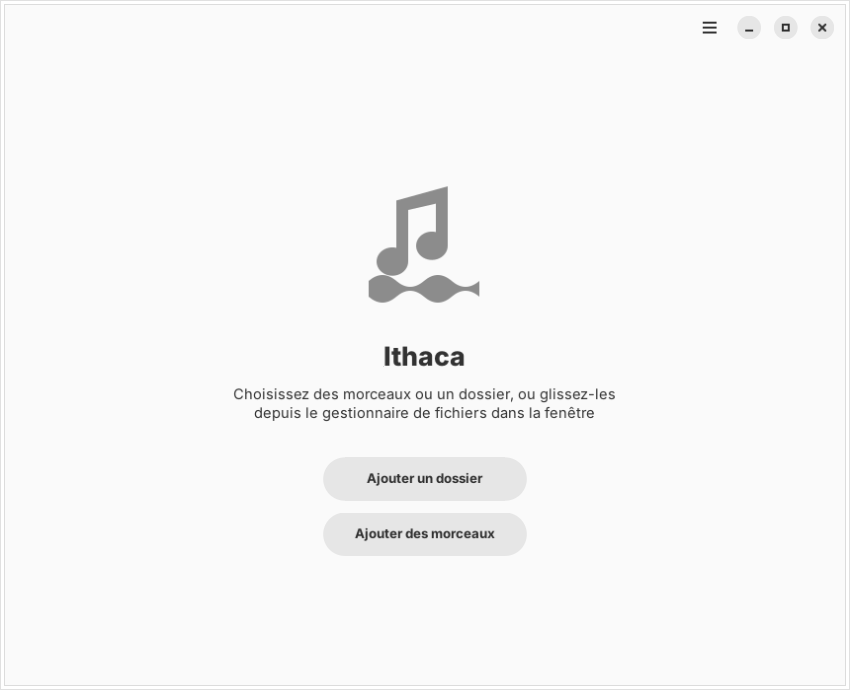
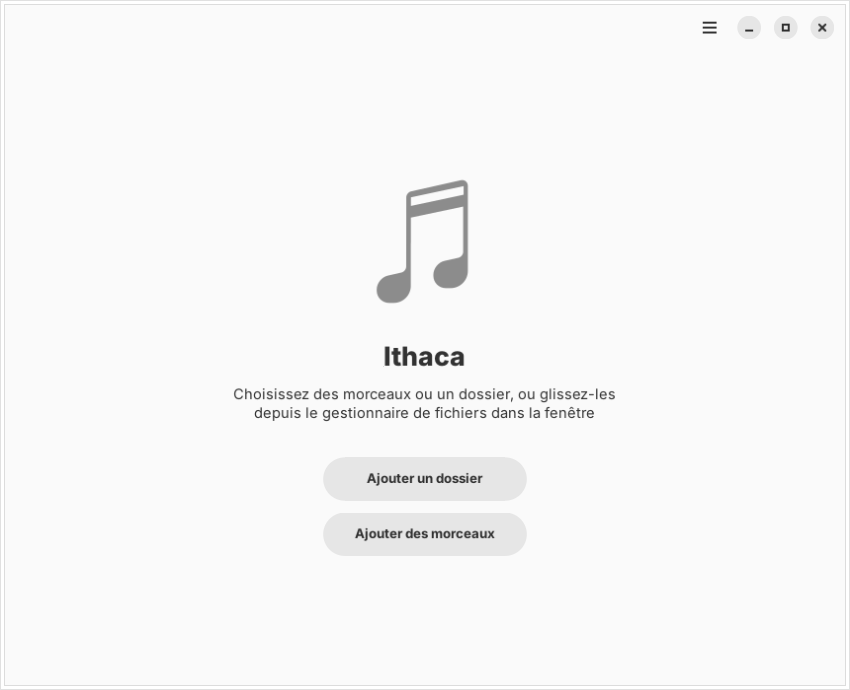
Barre système : icône de l'application, note de musique en symbolique
Choix de Tof : l'icône violette dédiée est abandonnée, la barre affiche
l'icône de l'application. Un shell réglé en icônes symboliques
(-st-icon-style: symbolic) prend d'elle-même io.github.ithaca.Ithaca-
symbolic, désormais une note de musique (fournie par Tof, couleur
simple pour être recolorée), aussi sur la page d'accueil (captures
refaites). install.sh retire l'ancienne icône -tray ; test : les deux
variantes doivent être trouvables par l'extension.

Claude-Session: https://claude.ai/code/session_01S2pd79zcmUKbwuKP7HHfC8

Changed region(s): [[0.4282, 0.2435, 0.5812, 0.4565]]

diff --git a/ithaca/backend/tray.py b/ithaca/backend/tray.py
@@ -22,9 +22,10 @@ MENU_PATH = "/MenuBar"
 WATCHER = "org.kde.StatusNotifierWatcher"
 ICONS_DIR = os.path.join(os.path.dirname(os.path.dirname(os.path.dirname(os.path.abspath(__file__)))),
                          "data", "icons")
-# Icône EN COULEUR (disque violet, triangle « lecture ») : la symbolique (note sur des vagues) était
-# illisible à 16 px, et une icône symbolique est recolorée d'une seule teinte (adieu le violet).
-ICON_NAME = APP_ID + "-tray"
+# L'icône de l'application (choix de Tof). Thème du shell en icônes symboliques
+# (`-st-icon-style: symbolic` dans gnome-shell.css) : l'extension cherche alors d'elle-même
+# « io.github.ithaca.Ithaca-symbolic », la note de musique. Selon la configuration, l'une ou l'autre.
+ICON_NAME = APP_ID
 
 
 def icon_theme_path() -> str:
@@ -33,8 +34,10 @@ def icon_theme_path() -> str:
     Sans index.theme dans ce dossier, l'extension AppIndicator ne trouvait rien et montrait son icône
     d'attente (« ••• »)."""
     for base in [GLib.get_user_data_dir(), *GLib.get_system_data_dirs()]:
-        if os.path.exists(os.path.join(base, "icons", "hicolor", "scalable", "apps", ICON_NAME + ".svg")):
-            return ""
+        icons = os.path.join(base, "icons", "hicolor")
+        if os.path.exists(os.path.join(icons, "scalable", "apps", ICON_NAME + ".svg")) and \
+                os.path.exists(os.path.join(icons, "symbolic", "apps", ICON_NAME + "-symbolic.svg")):
+            return ""                                 # les deux variantes installées dans le thème
     return ICONS_DIR
 
 ITEM_XML = """<node><interface name="org.kde.StatusNotifierItem">

diff --git a/tests/test_tray.py b/tests/test_tray.py
@@ -96,11 +96,11 @@ class TrayTest(unittest.TestCase):
             self.assertTrue(os.path.exists(index), "sans index.theme, la barre montre « ••• »")
             keys = GLib.KeyFile()
             keys.load_from_file(index, GLib.KeyFileFlags.NONE)
-            for d in keys.get_string("Icon Theme", "Directories").split(","):   # virgules (spécification)
-                if os.path.exists(os.path.join(path, "hicolor", d, name + ".svg")):
-                    break
-            else:
-                self.fail("icône absente des dossiers déclarés")
+            dirs = keys.get_string("Icon Theme", "Directories").split(",")    # virgules (spécification)
+            # l'icône de l'application, et sa variante symbolique (note) pour un shell en icônes symboliques
+            for variant in (name, name + "-symbolic"):
+                self.assertTrue(any(os.path.exists(os.path.join(path, "hicolor", d, variant + ".svg")) for d in dirs),
+                                f"{variant} absente des dossiers déclarés")
 
     def test_menu_and_actions(self):
         self.assertIn(self.t.name, self.registered)

diff --git a/CLAUDE.md b/CLAUDE.md
@@ -154,10 +154,12 @@ téléchargements (abandonné, historique repris de zéro à la demande de Tof).
   enregistrés auprès de org.kde.StatusNotifierWatcher (chez Tof : extension « AppIndicator and
   KStatusNotifierItem Support » d'Ubuntu, ubuntu/gnome-shell-extension-appindicator — il a quitté
   celle de Zorin, trop boguée) ; pas de
-  barre : rien ne s'affiche, rien ne casse. Icône `io.github.ithaca.Ithaca-tray` (scalable/apps), EN
-  COULEUR, choix de Tof : disque violet + triangle « lecture » violet → rose, dans l'esprit du site ; la
-  symbolique (note sur des vagues) était illisible à 16 px, et une icône symbolique est recolorée d'une
-  seule teinte par GNOME. Installée (paquet, install.sh) → IconThemePath vide, la barre la prend dans le
+  barre : rien ne s'affiche, rien ne casse. Icône = celle de l'application (`io.github.ithaca.Ithaca`,
+  choix de Tof après un essai d'icône violette dédiée, abandonné) ; shell réglé en icônes symboliques
+  (`-st-icon-style: symbolic` dans gnome-shell.css) → l'extension prend d'elle-même
+  `io.github.ithaca.Ithaca-symbolic` = note de musique (fournie par Tof, emblem-music-symbolic,
+  couleur simple — sa feuille de style KDE retirée), aussi sur la page d'accueil. Les deux installées
+  (paquet, install.sh, qui retire l'ancienne `-tray`) → IconThemePath vide, la barre les prend dans le
   thème du système ;
   lancé sans installer → IconThemePath = data/icons, qui DOIT garder `hicolor/index.theme` (l'extension
   cherche avec St.IconTheme, logique de GTK 3 : sans index.theme rien n'est trouvé, icône d'attente
